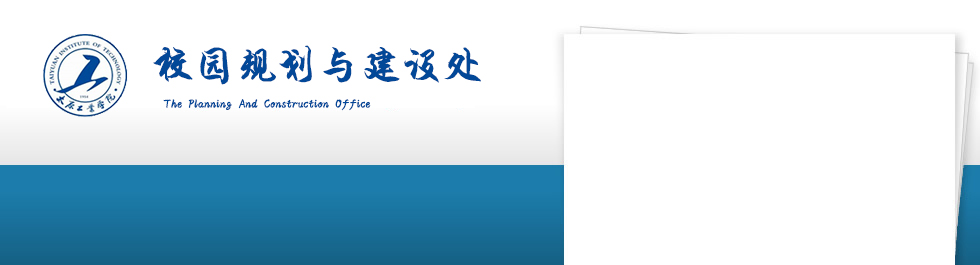
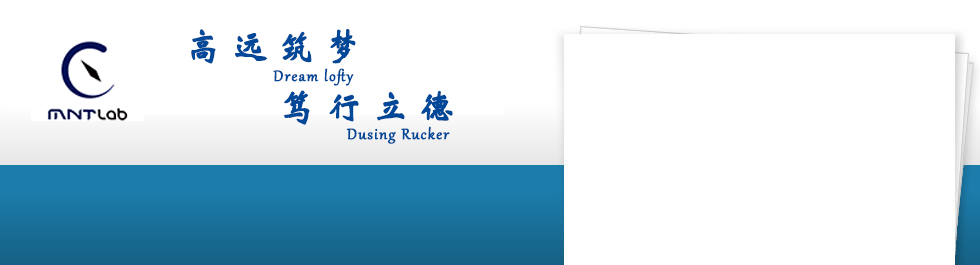
welcome

Changed region(s): [[0.1531, 0.1208, 0.4898, 0.483], [0.0306, 0.1208, 0.1531, 0.4528], [0.3367, 0.483, 0.4592, 0.5434]]

diff --git a/assets/css/welcome.css b/assets/css/welcome.css
@@ -1,0 +1,35 @@
+/* CSS Document */
+body {
+	background: #000;
+	border: 0;
+	font-family: "微软雅黑", "宋体";
+	font-size: 12px;
+	line-height: 22px;
+	color: #000;
+	display: block;
+}
+.top{
+	margin:20px 0 0 20px;
+}
+.top img{
+	width:100px;
+}
+.center{
+	width:50%;
+	position:fixed;
+	bottom:20%;
+	left:28%;
+	color:white;
+}
+.center h1{
+	font-size:4em;
+	font-weight:400px;
+}
+.center p{
+	font-size:1.5em;
+	line-height:40px;
+	margin-top:60px;
+}
+.bottom{
+	margin-top:50px;
+}

diff --git a/application/views/home/welcome.php b/application/views/home/welcome.php
@@ -1,0 +1,25 @@
+<!doctype html>
+<html>
+<head>
+    <meta charset="utf-8">
+    <title><?php echo $title;?></title>
+	<link rel="stylesheet" href="/assets/css/welcome.css" type="text/css"/>
+</head>
+<body style="background:url(/assets/images/admin/front_page.jpg);">
+	<div class="top">
+		<img src="/assets/images/home/MNT3.jpg">
+	</div>
+	<div class="center">
+		<h1>高远筑梦 笃行立德</h1>
+		<p>
+			你以为互联网让你更聪明，那是因为有了搜索引擎
+			成员间共享集体需要的信息在社会系统中很常见，比方说一个宿舍里有人会记得什么时候该付账，有人会记得送外卖的电话等等，这种所谓的交互记忆系统有助于大家的生活变得更加简单。
+		</p>
+		<div class="bottom">
+			<a href="/home/homepage">
+				<img src="/assets/images/home/enter.png" height="40px" onmouseover="this.src='/assets/images/home/enter4.png'" onmouseout="this.src='/assets/images/home/enter.png'">
+			</a>
+		</div>
+	</div>
+</body>
+</html>

diff --git a/application/controllers/home.php b/application/controllers/home.php
@@ -72,6 +72,10 @@ class Home extends CI_Controller {
 		$this->load->view('home/footer');
 	}
 	public function index(){
+		$data=array('title'=>'欢迎进入 MNT Lab');
+		$this->load->view('home/welcome',$data);
+	}
+	public function homepage(){
 		$data=array(
 			'column'=>$this->commongetdata->getPositions('index',true),
 			'columnType'=>$this->commongetdata->getAllColumnType('english')
